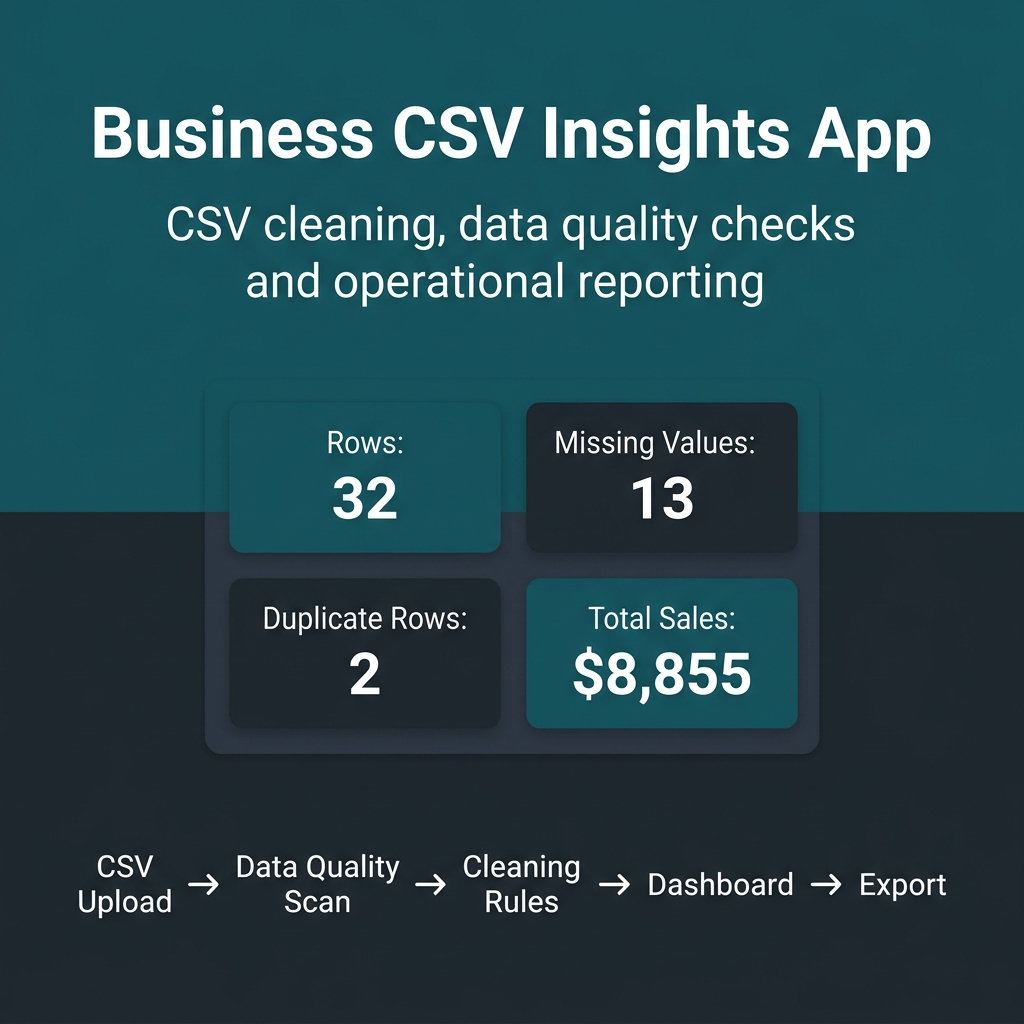
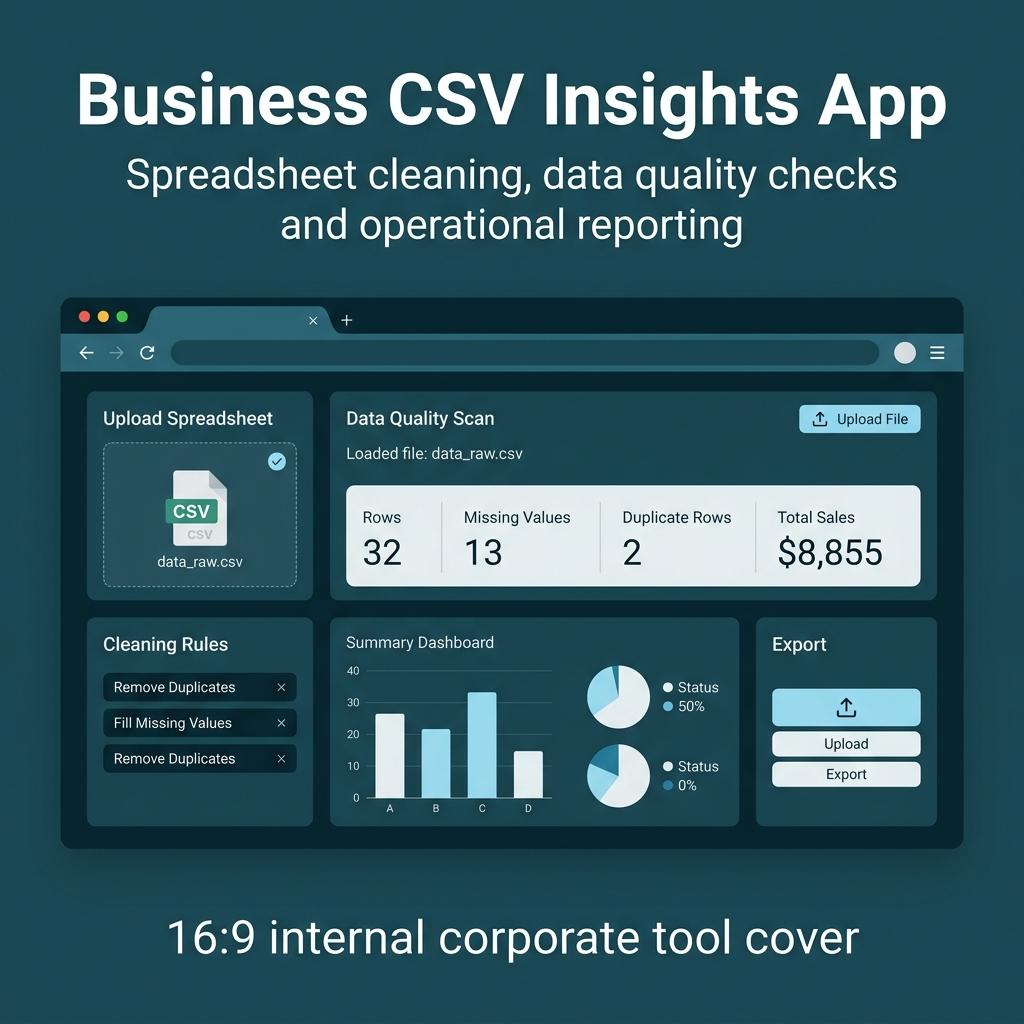
Polish CSV insights app portfolio presentation

diff --git a/README.md b/README.md
@@ -1,96 +1,86 @@
-# Business CSV Insights & Data Cleaning App
+# Business CSV Insights App
 
 ![Project Cover](assets/project-cover.png)
 
-A business data cleaning and reporting app built to turn messy CSV files into clean datasets, quality checks and operational insights.
+A lightweight internal data app built to clean messy CSV files, check data quality and turn operational spreadsheets into useful business insights.
 
-The app allows users to upload CSV files, detect missing values and duplicate records, apply cleaning rules, visualize business metrics and export cleaned reporting files.
+The app was designed for recurring files exported from sales, operations, CRM, marketplace or logistics systems, where teams need to validate data, fix common issues and prepare clean reporting files quickly.
 
-## What Was Delivered
+## App Snapshot
 
-- CSV upload interface
-- Automated data quality scan
-- Missing value detection
-- Duplicate row detection
-- Data cleaning workflow
-- Before vs after cleaning summary
-- Business KPI dashboard
-- Sales and operations charts
-- Clean CSV export
-- Clean Excel export
-- Sample business dataset
+- Uploads CSV files directly in the browser
+- Loads a sample sales operations dataset when no file is uploaded
+- Detects missing values, duplicate rows and inconsistent text fields
+- Applies cleaning rules without editing spreadsheets manually
+- Generates sales and operational metrics
+- Exports cleaned CSV and Excel files
 
-## Dashboard Preview
+## Preview
 
 ![Dashboard Preview](assets/dashboard-preview.png)
 
-## Project Outcome
+## Data Quality Results
 
-The final app helps business users replace manual spreadsheet cleanup with an interactive workflow for data validation, cleaning and reporting.
+Using the included sample dataset:
 
-It is useful for teams that receive messy CSV or Excel exports from sales systems, CRMs, ERPs, marketplaces, logistics tools or operational spreadsheets.
+| Metric | Before Cleaning | After Cleaning |
+|---|---:|---:|
+| Rows | 32 | 30 |
+| Missing Values | 13 | 0 |
+| Duplicate Rows | 2 | 0 |
+| Total Sales | $8,925 | $8,855 |
 
-## Key Features
+## What the App Handles
 
-- Upload CSV files
-- Load sample business data
-- Detect data quality issues
-- Remove duplicate rows
-- Fill missing values
-- Standardize text fields
-- Generate sales KPIs
-- Visualize operational performance
-- Export cleaned CSV and Excel files
+- Duplicate records
+- Missing numeric values
+- Missing text fields
+- Inconsistent status values
+- Irregular column names
+- Date parsing issues
+- CSV-to-reporting preparation
 
-## Business Value
+## Business Output
 
-This solution helps reduce manual spreadsheet work, improve data quality and accelerate reporting.
+The cleaned dataset can be used for:
 
-It can be adapted for sales reporting, operations tracking, CRM exports, inventory files, marketplace reports, logistics files and recurring Excel/CSV workflows.
+- Sales reporting
+- Operational performance review
+- Payment status monitoring
+- Delivery status tracking
+- Regional sales analysis
+- Product category analysis
+- Monthly trend analysis
 
-## Tech Stack
+## App Views
 
-Python, Streamlit, Pandas, Plotly, OpenPyXL, CSV, Excel
+The interface includes:
 
-## Freelance Use Cases
+- Data quality overview
+- Cleaning controls
+- Before vs after summary
+- Sales KPI dashboard
+- Operational charts
+- Original and cleaned data preview
+- Downloadable CSV and Excel outputs
 
-This type of project can be adapted for:
+## Built With
 
-- Excel and CSV automation
-- Data cleaning workflows
-- Sales reporting dashboards
-- Operations reporting
-- CRM export cleaning
-- Marketplace order analysis
-- Inventory file validation
-- Internal business tools
+Python, Streamlit, Pandas, Plotly, OpenPyXL, CSV and Excel exports.
 
-## Repository Structure
+## Repository Contents
 
 ```
 business-csv-insights-app/
 ├── app.py
-├── requirements.txt
-├── README.md
-├── .gitignore
 ├── assets/
-│   ├── project-cover.png
-│   ├── dashboard-preview.png
-│   └── fiverr_portfolio_text.md
 ├── sample_data/
-│   └── sample_sales_operations.csv
-└── src/
-    ├── data_loader.py
-    ├── data_cleaner.py
-    ├── analytics.py
-    └── utils.py
+├── src/
+├── data/
+├── README.md
+└── requirements.txt
 ```
 
-## How to Run Locally
+## Notes
 
-```powershell
-python -m venv .venv
-.venv\Scripts\activate
-pip install -r requirements.txt
-streamlit run app.py
-```
+The app runs locally as a Streamlit application and uses the included sample dataset for demonstration. Users can upload their own CSV files directly through the interface.

diff --git a/assets/fiverr_portfolio_text.md b/assets/fiverr_portfolio_text.md
@@ -1,23 +1,23 @@
-# Business CSV Insights & Data Cleaning App
+# Business CSV Insights App
 
 ## Title
-Business CSV Insights & Data Cleaning App
+Business CSV Insights App
 
 ## Description
-Built an internal business web app that allows users to upload CSV files, detect data quality issues, clean messy datasets, generate operational insights and export cleaned CSV/Excel files.
+Built an internal CSV cleaning and reporting app for messy operational files. The app detects data quality issues, applies cleaning rules, generates business metrics and exports clean reporting files.
 
 ## Delivered
 - CSV upload workflow
-- Automated data quality scan
+- Data quality scan
 - Missing value detection
 - Duplicate detection
-- Cleaning rules
-- Business KPI dashboard
-- Sales and operations charts
-- Clean CSV and Excel exports
+- Cleaning controls
+- Before vs after summary
+- Sales and operations dashboard
+- CSV and Excel export
 
 ## Skills
-Python, Streamlit, Pandas, Plotly, Excel, CSV, Data Cleaning, Data Quality, Data Automation, Dashboard Development
+Python, Streamlit, Pandas, Plotly, Excel, CSV, Data Cleaning, Data Quality, Data Automation
 
-## Business Use
-Useful for companies that need to clean recurring spreadsheet exports, automate reporting preparation, validate operational data and generate quick insights from CSV or Excel files.
+## Business Context
+Useful for teams that receive recurring spreadsheet exports from sales, CRM, ERP, marketplace, logistics or operations systems and need faster reporting preparation.

diff --git a/SETUP.md b/SETUP.md
@@ -1,0 +1,17 @@
+# Local Setup & Installation
+
+Follow these steps to run the Business CSV Insights App locally on Windows:
+
+```powershell
+# 1. Create a virtual environment
+python -m venv .venv
+
+# 2. Activate the virtual environment
+.venv\Scripts\activate
+
+# 3. Install the required dependencies
+pip install -r requirements.txt
+
+# 4. Start the Streamlit application
+streamlit run app.py
+```